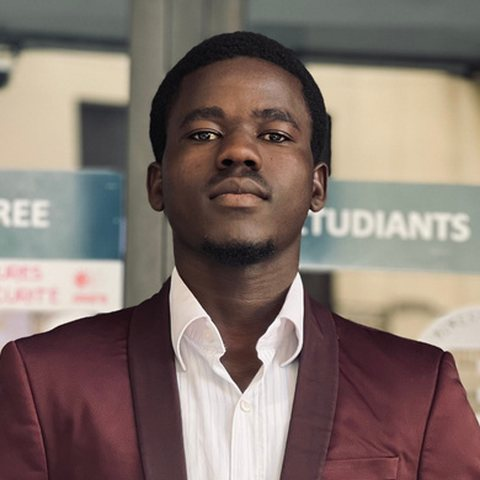
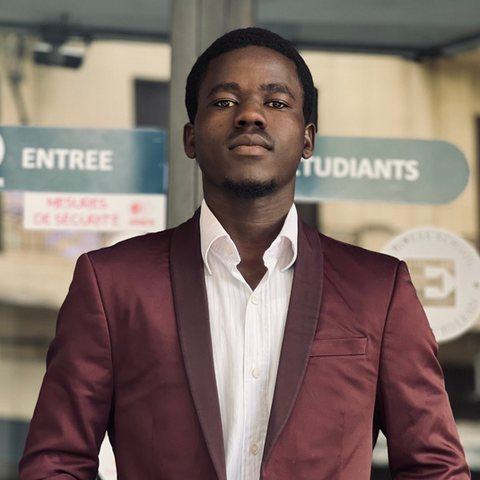
Portfolio : photo cadrée comme sur le CV, sans liseré

diff --git a/index.html b/index.html
@@ -43,7 +43,7 @@ p{margin:0}
 
 /* Hero */
 .hero{display:grid;grid-template-columns:260px 1fr;gap:48px;align-items:center}
-.photo{width:100%;max-width:260px;aspect-ratio:1;object-fit:cover;border-radius:50%;display:block;background:var(--line);border:4px solid var(--surface);box-shadow:0 0 0 2px var(--accent)}
+.photo{width:100%;max-width:260px;aspect-ratio:1;object-fit:cover;border-radius:50%;display:block;background:var(--line)}
 .hero-text{display:flex;flex-direction:column;gap:18px;min-width:0}
 .hero h1{font-size:clamp(46px,8.5vw,96px);font-weight:800;letter-spacing:-.035em}
 .hero h1 span{color:var(--accent)}
